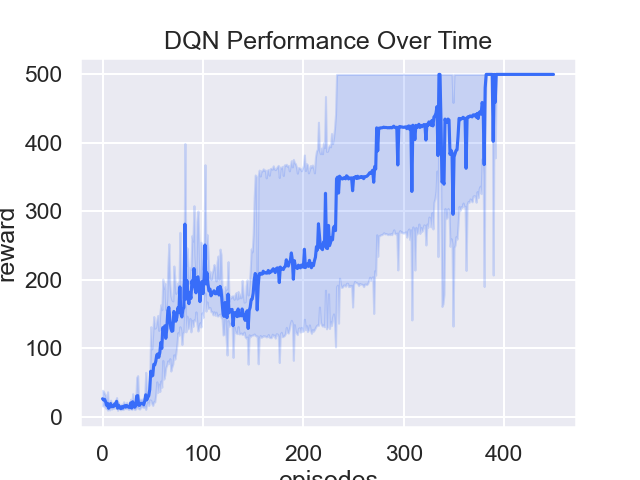
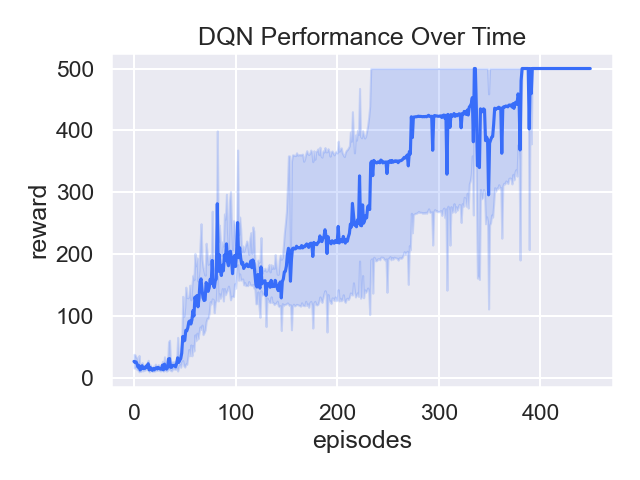
better plots for DQN and some comments

diff --git a/src/agents/dqn.py b/src/agents/dqn.py
@@ -387,7 +387,7 @@ if __name__ == "__main__":
         # Record the performance of the algorithm
         episode_durations_over_seeds.append(episode_durations)
 
-    # Plot the performance recorded over the last seed
+    # Plot the performance recorded over the first seed
     seed_episode_durations = episode_durations_over_seeds[0]
     plot_single_episode(algorithm = "DQN", episode_durations = seed_episode_durations, num_episodes = num_episodes)
 
